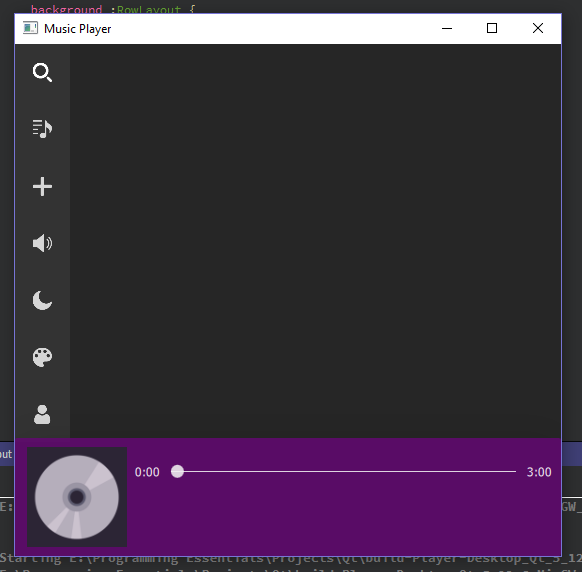
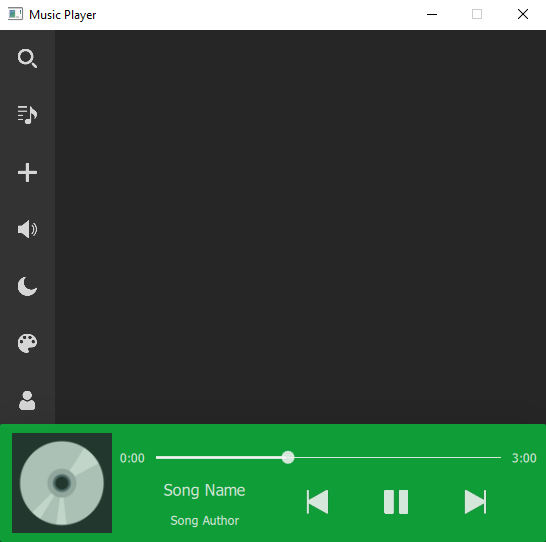
completed MiniPlayer Design

diff --git a/MiniPlayer.qml b/MiniPlayer.qml
@@ -47,18 +47,19 @@ Pane {
         anchors.top: parent.top
         //anchors.left: albumCoverPane.right
         anchors.right: parent.right
-        //padding:
+        padding: 0
 
 
         background :RowLayout {
-            anchors.fill: parent
+            Layout.fillWidth: true
+            Layout.fillHeight: true
             Layout.margins: 0
             Text {
                 id: currentTime
                 text: qsTr("0:00")
                 font.pointSize: 9
                 Layout.alignment: Qt.AlignRight
-                color: "white"
+                color: application.lightForeground
 
             }
             Slider {
@@ -75,13 +76,107 @@ Pane {
                 text: qsTr("3:00")
                 font.pointSize: 9
                 Layout.alignment: Qt.AlignVCenter | Qt.AlignHCenter
-                color: "white"
+                color: application.lightForeground
             }
         }
 
     }
 
+    Pane {
+        id: songDetailsPane
+        width: parent.width*(1.7/5)
+        height: parent.height*(2.5/4)
 
+        anchors.left: albumCoverPane.right
+        anchors.bottom: parent.bottom
+
+        background: ColumnLayout {
+            spacing: 0
+            Label {
+                id: songTitle
+                text: qsTr("Song Name")
+                font.pointSize: 12
+                color: application.lightForeground
+                Layout.alignment: Qt.AlignVCenter | Qt.AlignHCenter
+            }
+
+            Label {
+                id: songAuthor
+                text: qsTr("Song Author")
+                font.pointSize: 9
+                color: application.lightForeground
+                Layout.alignment: Qt.AlignVCenter | Qt.AlignHCenter
+            }
+        }
+
+
+    }
+
+    Pane {
+        id: contolsPane
+        height: parent.height*(2.5/4)
+        width: parent.width*(2.25/5)
+        anchors.bottom: parent.bottom
+        anchors.right: parent.right
+
+        background: RowLayout {
+            spacing: 0
+            Layout.fillWidth: true
+            Layout.fillHeight: true
+            Button {
+                id: prevButton
+                Material.elevation: 20
+                background: Image {
+                    id: prevButtonImg
+                    source: "qrc:/normal/previous"
+                    fillMode: Image.PreserveAspectFit
+                    sourceSize.width: parent.width/3
+                    sourceSize.height: parent.height
+                    Layout.alignment: Qt.AlignHCenter | Qt.AlignVCenter
+
+                }
+                onClicked: {
+                    console.log("Previous Song Plz")
+                }
+            }
+            Button {
+                id: playButton
+                Material.elevation: 20
+                property string playButtonURL: "qrc:/normal/play"
+                property string pauseButtonURL: "qrc:/normal/pause"
+                property bool songPlaying: false
+                background: Image {
+                    id: playButtonImg
+                    source: playButton.songPlaying ? playButton.pauseButtonURL : playButton.playButtonURL
+                    fillMode: Image.PreserveAspectFit
+                    sourceSize.width: parent.width/3
+                    sourceSize.height: parent.height
+                    Layout.alignment: Qt.AlignHCenter | Qt.AlignVCenter
+                }
+                onClicked: {
+                    console.log("Play/Pause Song Plz")
+                    songPlaying=!songPlaying
+                }
+            }
+            Button {
+                id: nextButton
+                Material.elevation: 20
+                background: Image {
+                    id: nextButtonImg
+                    source: "qrc:/normal/next"
+                    fillMode: Image.PreserveAspectFit
+                    sourceSize.width: parent.width/3
+                    sourceSize.height: parent.height
+                    Layout.alignment: Qt.AlignHCenter | Qt.AlignVCenter
+                }
+                onClicked: {
+                    console.log("Next Song Plz")
+                }
+            }
+        }
+
+
+    }
 
 }
 

diff --git a/main.qml b/main.qml
@@ -11,6 +11,10 @@ ApplicationWindow {
     id: application
     width: Screen.width*(2/5)
     height: Screen.height*(2/3)
+    maximumHeight: height
+    maximumWidth: width
+    minimumHeight: height
+    minimumWidth: width
     //flags: Qt.FramelessWindowHint
     title: qsTr("Music Player")
     Material.theme: lightThemeOn ? Material.Light : Material.Dark
